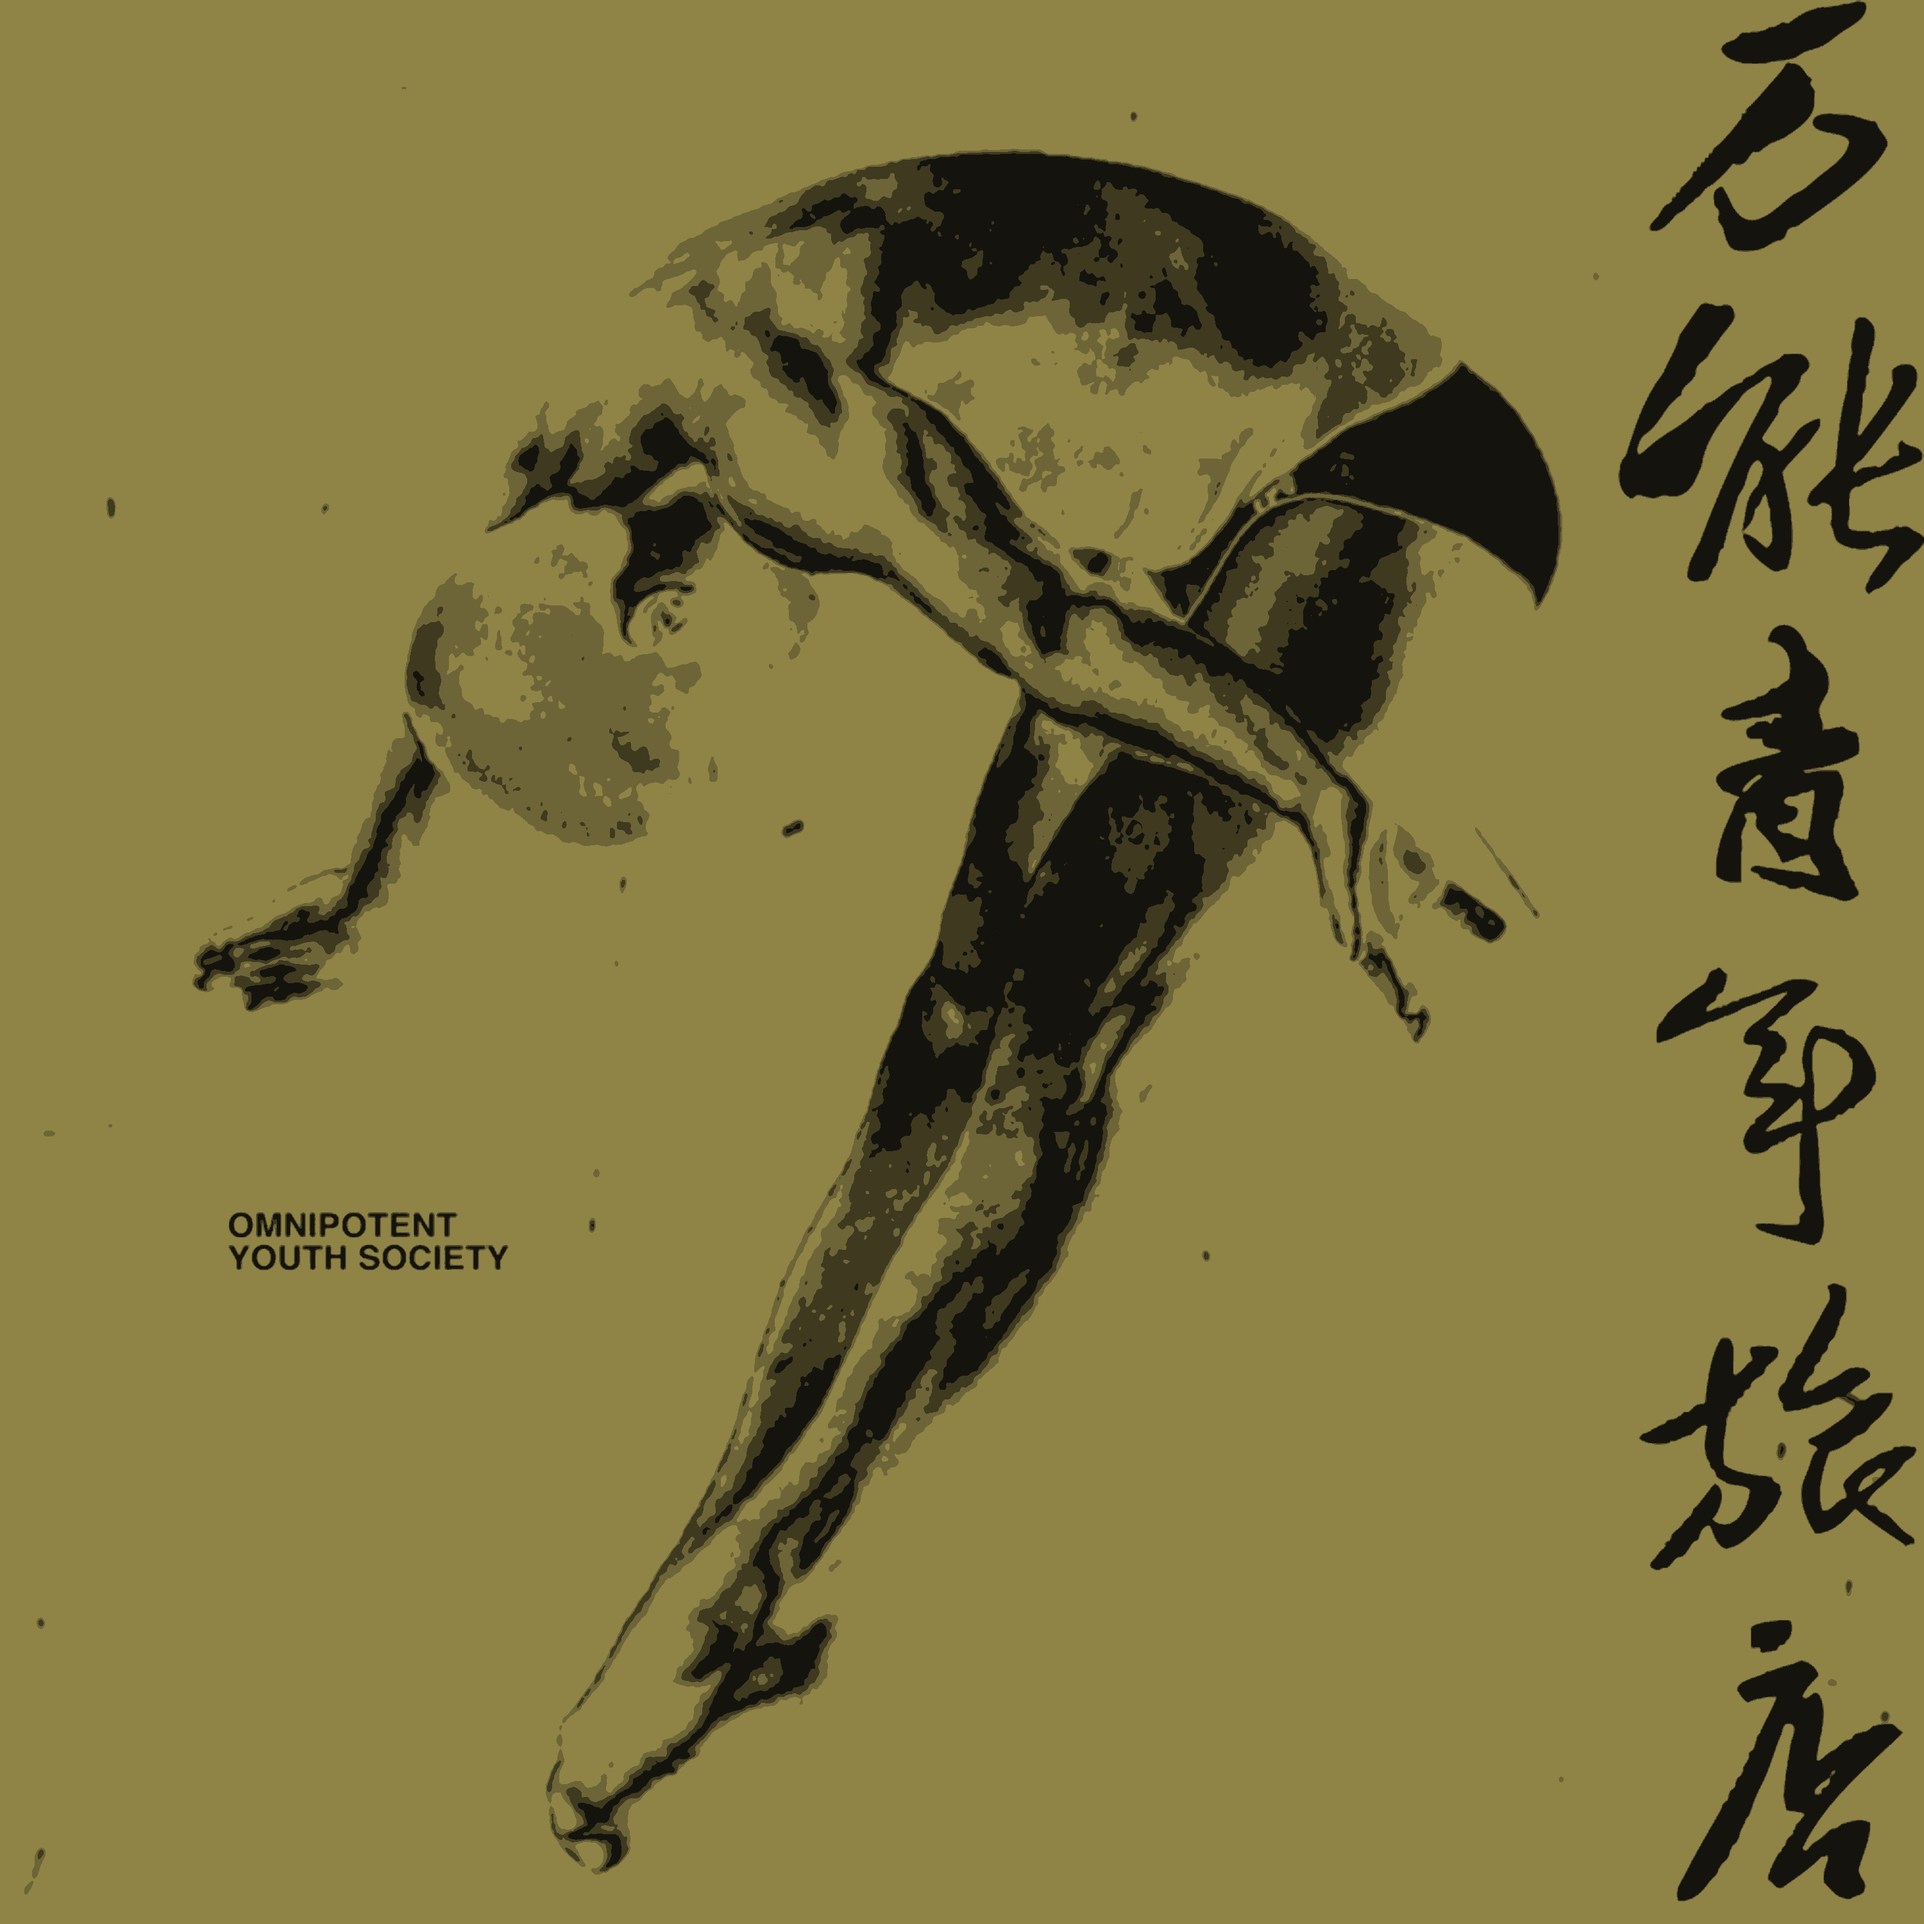
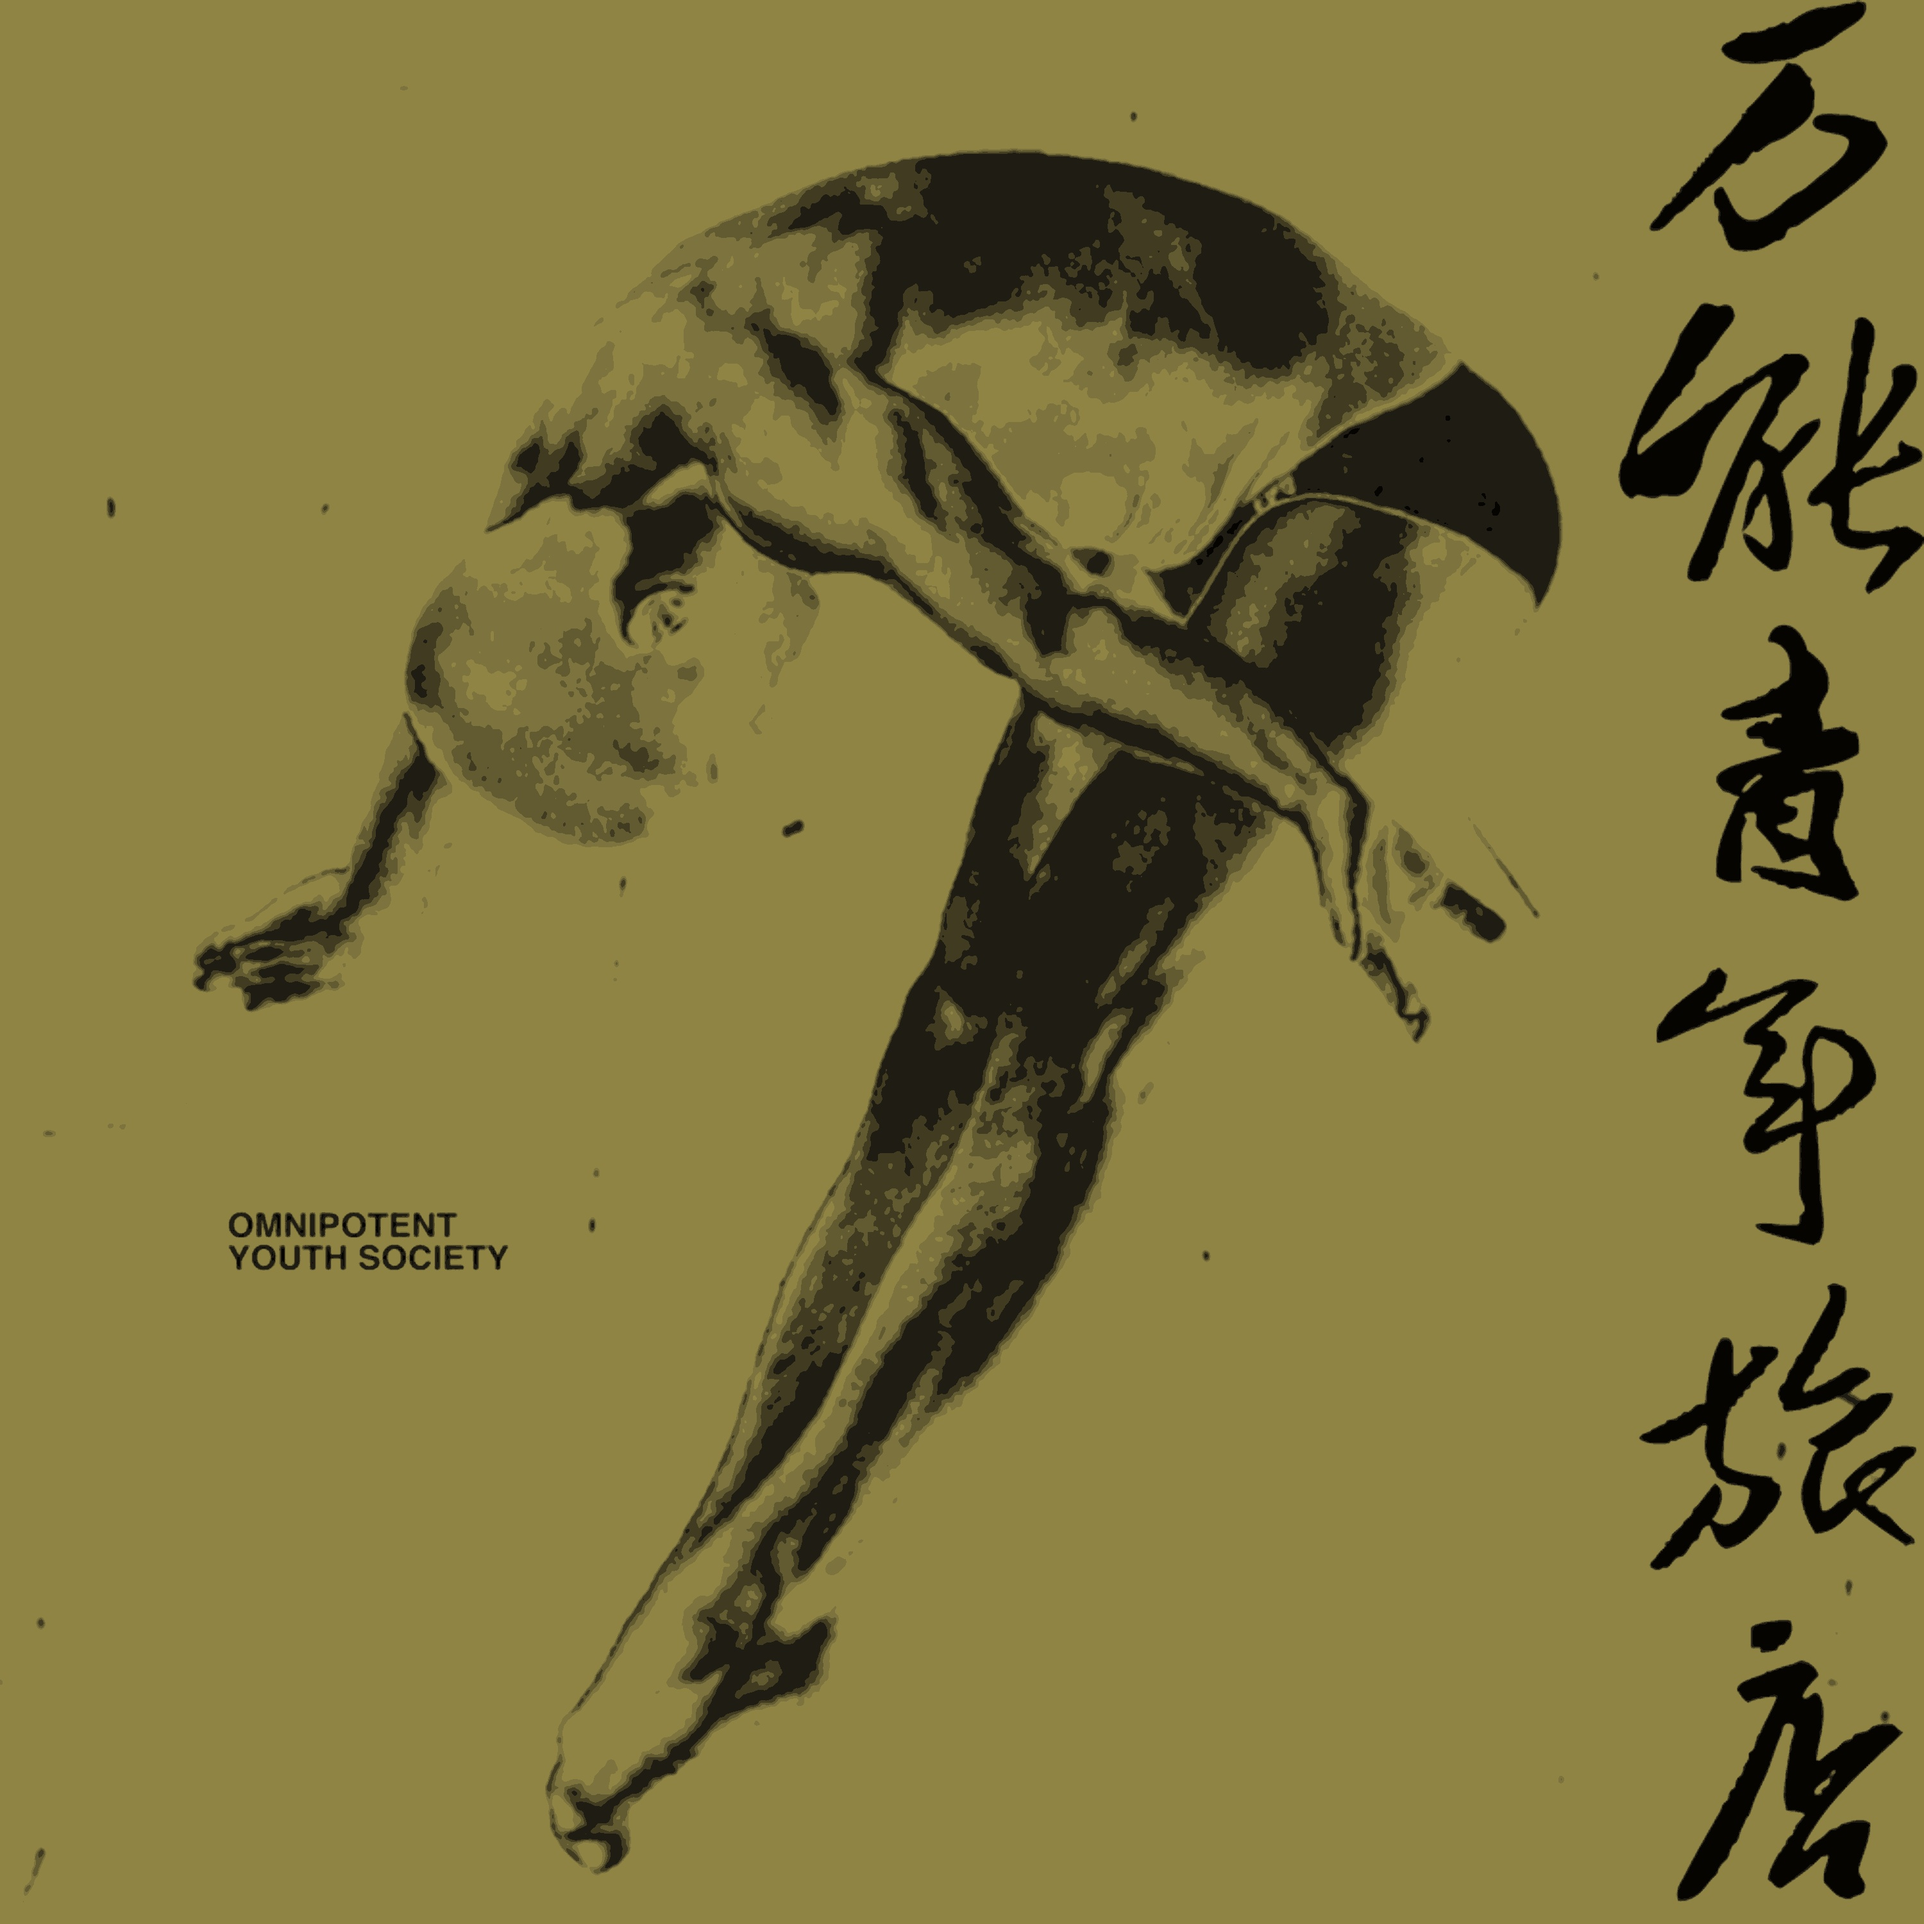
六层聚类的效果

diff --git a/stencil_maker.py b/stencil_maker.py
@@ -7,11 +7,11 @@ import math
 INPUT_FILE = 'ori.png'
 OUTPUT_DIR = 'stencil_output'
 TARGET_SIZE_CM = (150, 150)  # 1.5m x 1.5m
-DPI = 72  # 打印分辨率，72dpi对于大尺寸涂鸦模板足够，甚至可以更低，方便处理
+DPI = 72  # 打印分辨率
 # A4 纸张像素尺寸 (at 72 DPI)
 A4_WIDTH_PX = int(21.0 / 2.54 * DPI)
 A4_HEIGHT_PX = int(29.7 / 2.54 * DPI)
-NUM_CLUSTERS = 4  # 颜色数量：背景黄，浅灰，深灰，黑
+NUM_CLUSTERS = 6  # 颜色数量：增加到6层以获得更细腻的过渡
 
 def create_test_image():
     """创建一个测试图片，如果原图不存在"""
@@ -153,7 +153,14 @@ def main():
     #   Step 3: 刷黑色 (Color 3) -> 模板是 (Color 3) 的区域
     # 这样可以保证边缘严丝合缝，不会漏底。
     
-    layer_names = ['0_Background_Yellow', '1_LightGrey', '2_DarkGrey', '3_Black']
+    layer_names = [
+        '0_Background_Yellow', 
+        '1_HighLightGrey', 
+        '2_LightGrey', 
+        '3_MediumGrey', 
+        '4_DarkGrey', 
+        '5_Black'
+    ]
     
     print("开始分层处理...")
     

diff --git a/README.md b/README.md
@@ -1,18 +1,20 @@
-# 桥洞涂鸦施工手册：万能青年旅店封面
+# 桥洞涂鸦施工手册：万能青年旅店封面 (6层高精度版)
 
 ## 1. 准备工作
 *   **输入图片**：请确保文件夹内有 `ori.png`（高清原图）。
 *   **运行脚本**：双击 `stencil_maker.py` 生成图纸。
 
 ## 2. 颜色配方表 (Color Palette)
-请按照以下代码和配方提前调好 4 桶颜料。
+请按照以下代码和配方提前调好 6 桶颜料。
 
 | 编号 | 颜色名称 | 作用 | 对应图纸文件夹 | 颜色代码 (Hex/RGB) | 丙烯/乳胶漆调色配方 (估算) |
 | :--- | :--- | :--- | :--- | :--- | :--- |
 | **0** | **土黄色 (Base)** | **全墙打底** | 无 (直接刷墙) | **#9d8f4b**<br>RGB(157,143,75) | **土黄 70% + 白 20% + 熟褐/黑 10%**<br>*(这是最关键的底色，耐心调)* |
-| **1** | **浅灰色 (Light)** | **第一层阴影** | `1_LightGrey` | **#a0a0a0**<br>RGB(160,160,160) | **白 70% + 黑 30%** |
-| **2** | **深灰色 (Dark)** | **第二层阴影** | `2_DarkGrey` | **#505050**<br>RGB(80,80,80) | **白 30% + 黑 70%** |
-| **3** | **纯黑色 (Black)** | **核心轮廓** | `3_Black` | **#000000**<br>RGB(0,0,0) | **纯黑 100%** |
+| **1** | **极浅灰 (High Light)** | **高光过渡** | `1_HighLightGrey` | **#dcdcdc**<br>RGB(220,220,220) | **白 90% + 黑 10%** |
+| **2** | **浅灰色 (Light)** | **浅影** | `2_LightGrey` | **#a0a0a0**<br>RGB(160,160,160) | **白 70% + 黑 30%** |
+| **3** | **中灰色 (Medium)** | **中调** | `3_MediumGrey` | **#707070**<br>RGB(112,112,112) | **白 50% + 黑 50%** |
+| **4** | **深灰色 (Dark)** | **深影** | `4_DarkGrey` | **#404040**<br>RGB(64,64,64) | **白 30% + 黑 70%** |
+| **5** | **纯黑色 (Black)** | **核心轮廓** | `5_Black` | **#000000**<br>RGB(0,0,0) | **纯黑 100%** |
 
 ---
 
@@ -20,31 +22,37 @@
 
 ### 第 0 步：全墙打底
 *   **操作**：不需要模板。直接用滚筒蘸 **【0号 土黄色】**，把 1.5m x 1.5m 的墙面涂满。
-*   **等待**：必须等彻底干透（手摸上去不粘手）。
+*   **等待**：必须等彻底干透。
 
-### 第 1 步：刷浅灰层
-*   **模板**：使用 `1_LightGrey` 文件夹里的图纸拼出的模板。
-*   **操作**：贴好模板 -> 滚涂 **【1号 浅灰色】**。
-*   **注意**：这一层面积最大，是人物的基础轮廓。
+### 第 1 步：刷极浅灰层
+*   **模板**：使用 `1_HighLightGrey`。
+*   **操作**：滚涂 **【1号 极浅灰】**。
 
-### 第 2 步：刷深灰层
-*   **模板**：使用 `2_DarkGrey` 文件夹里的图纸拼出的模板。
-*   **操作**：贴好模板 -> 滚涂 **【2号 深灰色】**。
-*   **注意**：这一层会覆盖在浅灰层上面，增加立体感。
+### 第 2 步：刷浅灰层
+*   **模板**：使用 `2_LightGrey`。
+*   **操作**：滚涂 **【2号 浅灰色】**。
+*   **注意**：这一层会覆盖在 Layer 1 上，阴影范围开始缩小。
 
-### 第 3 步：刷黑色层
-*   **模板**：使用 `3_Black` 文件夹里的图纸拼出的模板。
-*   **操作**：贴好模板 -> 滚涂 **【3号 纯黑色】**。
-*   **注意**：这是最关键的一层（人物五官、文字），一定要固定好，防止漏墨。
+### 第 3 步：刷中灰层
+*   **模板**：使用 `3_MediumGrey`。
+*   **操作**：滚涂 **【3号 中灰色】**。
 
-### 第 4 步：手工修补
-*   **操作**：撕掉所有模板后，用小毛笔蘸对应颜色的颜料，把为了固定模板留下的“连接点（白点/断点）”涂上颜色，让线条连贯。
+### 第 4 步：刷深灰层
+*   **模板**：使用 `4_DarkGrey`。
+*   **操作**：滚涂 **【4号 深灰色】**。
+
+### 第 5 步：刷黑色层
+*   **模板**：使用 `5_Black`。
+*   **操作**：滚涂 **【5号 纯黑色】**。这是最后的一层，最黑的部分。
+
+### 第 6 步：手工修补
+*   **操作**：撕掉所有模板，用小笔修补连接点。
 
 ---
 
 ## 4. 常见问题
 *   **怎么防止颜料渗到纸背面？**
-    *   **关键**：颜料一定要**干**！滚筒蘸了颜料后，在废纸板上多滚几下，滚到几乎没有流动性为止。宁可多滚几遍，也不要一次滚太厚。
-    *   **喷胶**：如果有条件，在模板背面喷一点 3M 77 喷胶，贴得更紧。
+    *   **关键**：颜料一定要**干**！滚筒蘸了颜料后，在废纸板上多滚几下，滚到几乎没有流动性为止。
+    *   **喷胶**：建议使用 3M 77 喷胶固定模板背面。
 *   **模板怎么对齐？**
     *   每一层模板的四角都有定位标记（或者以墙面的四个角为基准），贴下一层时，确保四角和上一层的位置重合。
